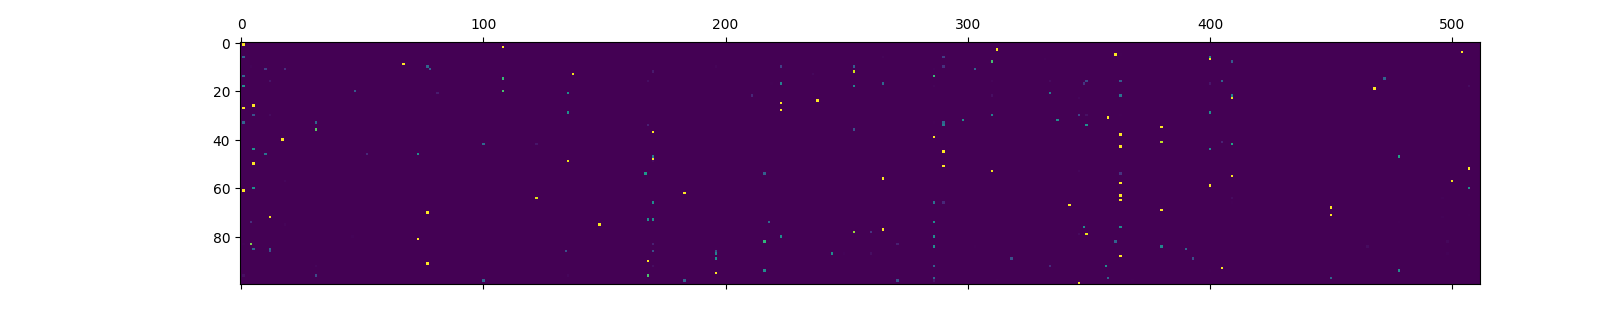
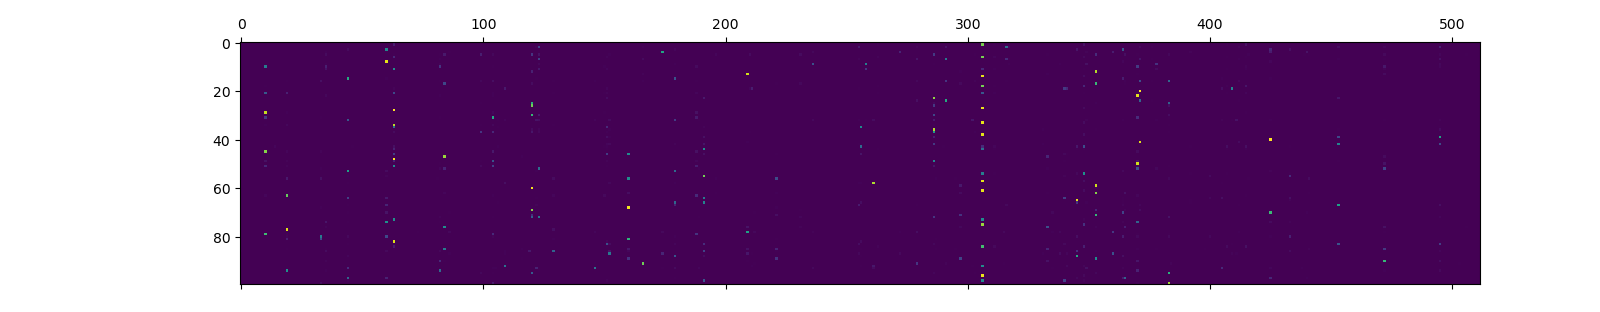
tuning for MI with rotation

diff --git a/experiments/batchnorm_rot_cnn_cifar100.py b/experiments/batchnorm_rot_cnn_cifar100.py
@@ -217,21 +217,21 @@ if __name__ == '__main__':
     ]
     optimizers_and_layers = [(optimizers[0], conv_layers), (optimizers[1], other_layers)]'''
 
-    initial_learning_rate = 1e0
-    final_learning_rate = 1e-1
+    initial_learning_rate = 1e-3
+    final_learning_rate = 1e-5
     learning_rate_decay_factor = (final_learning_rate / initial_learning_rate)**(1/epochs)
     steps_per_epoch = int(X_train.shape[0]/batch_size)
     print("Steps per Epoch ", steps_per_epoch)
 
     sched = tf.keras.optimizers.schedules.CosineDecayRestarts(
             initial_learning_rate,
-            50,
+            150,
             t_mul=1.0,
             m_mul=0.9,
             alpha=final_learning_rate,
             )
     
-    optimizer =     tf.keras.optimizers.RMSprop(1e-4) #tfa.optimizers.MultiOptimizer(optimizers_and_layers)
+    optimizer =     tf.keras.optimizers.RMSprop(1e-2) #tfa.optimizers.MultiOptimizer(optimizers_and_layers)
 
 
     objective = Mutual_Information_Objective(512, num_classes= 100, conv_features=True)
@@ -262,10 +262,10 @@ if __name__ == '__main__':
                         y_train, 
                         batch_size=batch_size, 
                         epochs=epochs, 
-                        validation_data=(X_validation, y_validation),
+                        #validation_data=(X_validation, y_validation),
                         callbacks=[cp_callback])
 
-    #predictions = backbone.predict(X_train)
+    predictions = backbone.evaluate(X_validation, y_validation)
 
 
 
@@ -273,18 +273,17 @@ if __name__ == '__main__':
     plt.matshow(m)
     plt.savefig("my_conf_mat_after.png")
 
-
     model.load_weights(checkpoint_path)
 
     '''''''''
 
-    Stage 2 : Learning the weights 
+    Stage 2 : Learning the mlp weights 
 
     '''''''''
     #layout_callback = FLL(wandb=wandb, model=model, layer_filter_dict={3: [1, 10, 100], 7: [1, 10, 100], 10: [1, 10, 100], 15: [1, 10, 100]})
 
     batch_size = 64
-    epochs = 63
+    epochs = 2
 
     #
     conv_layers = []
@@ -293,6 +292,59 @@ if __name__ == '__main__':
         if l.__class__.__name__ == 'RotConv2D':
             l._train_r = False
             l._train_w = True
+            l.trainable = False
+            conv_layers.append(l)
+        if  l.__class__.__name__ == 'Dense':
+            l.trainable = True
+            other_layers.append(l)
+
+    optimizer =   tf.keras.optimizers.RMSprop(learning_rate=1e-2)  #-4 best
+
+
+    model.compile(
+            optimizer=optimizer,
+            loss=keras.losses.SparseCategoricalCrossentropy(from_logits=False),
+            metrics=[
+                keras.metrics.SparseCategoricalAccuracy(name="accuracy"),
+                keras.metrics.SparseTopKCategoricalAccuracy(5, name="top-5-accuracy"),
+            ],
+    )
+
+
+    history = model.fit(X_train, 
+                        y_train, 
+                        batch_size=batch_size, 
+                        epochs=epochs, 
+                        validation_data=(X_validation, y_validation))
+    
+
+    '''log_gradients   = (True), 
+    log_weights     = (True),
+    training_data   = (X_train, y_train),
+    validation_data = (X_validation, y_validation)
+    input_type = "images",
+    output_type = "label",
+    )])'''
+
+
+    '''''''''
+
+    Stage 3 : Learning all the weights 
+
+    '''''''''
+    #layout_callback = FLL(wandb=wandb, model=model, layer_filter_dict={3: [1, 10, 100], 7: [1, 10, 100], 10: [1, 10, 100], 15: [1, 10, 100]})
+
+    batch_size = 64
+    epochs = 60
+
+    #
+    conv_layers = []
+    other_layers = []
+    for l in model.layers:
+        if l.__class__.__name__ == 'RotConv2D':
+            l._train_r = False
+            l._train_w = True
+            l.trainable = True
             conv_layers.append(l)
         if  l.__class__.__name__ == 'Dense':
             l.trainable = True

diff --git a/experiments/models/batch_norm_rot.py b/experiments/models/batch_norm_rot.py
@@ -47,21 +47,21 @@ def batchnorm_rot_cnn():
     x=BatchNormalization()(x)
     x=Activation('relu')(x)
     x=RotConv2D(512,padding='SAME')(x)
-
-
-
     x=BatchNormalization()(x)
-    #x=Activation('relu')(x)
-    x=MaxPool2D(pool_size=(2,2))(x)  #2x2x512
-    x = Dropout(0.2)(x)
 
-    feature_layer= AveragePooling2D(pool_size=(2, 2), name='avg_pool')(x)
+
+
+
+    feature_layer= AveragePooling2D(pool_size=(4, 4), name='avg_pool_feature')(x)
     #feature_layer = Dropout(0.2)(feature_layer)
     #feature_layer= MaxPool1D(pool_size=4, name='maxpool1D')(feature_layer)
-    feature_layer= Activation('softmax')(feature_layer/0.01)
+    feature_layer= Activation('softmax')(feature_layer/0.75)
+    feature_layer = Dropout(0.5)(feature_layer)
 
 
-
+    x=Activation('relu')(x)
+    x=MaxPool2D(pool_size=(2,2))(x)  #2x2x512
+    x = Dropout(0.2)(x)
 
 
 
